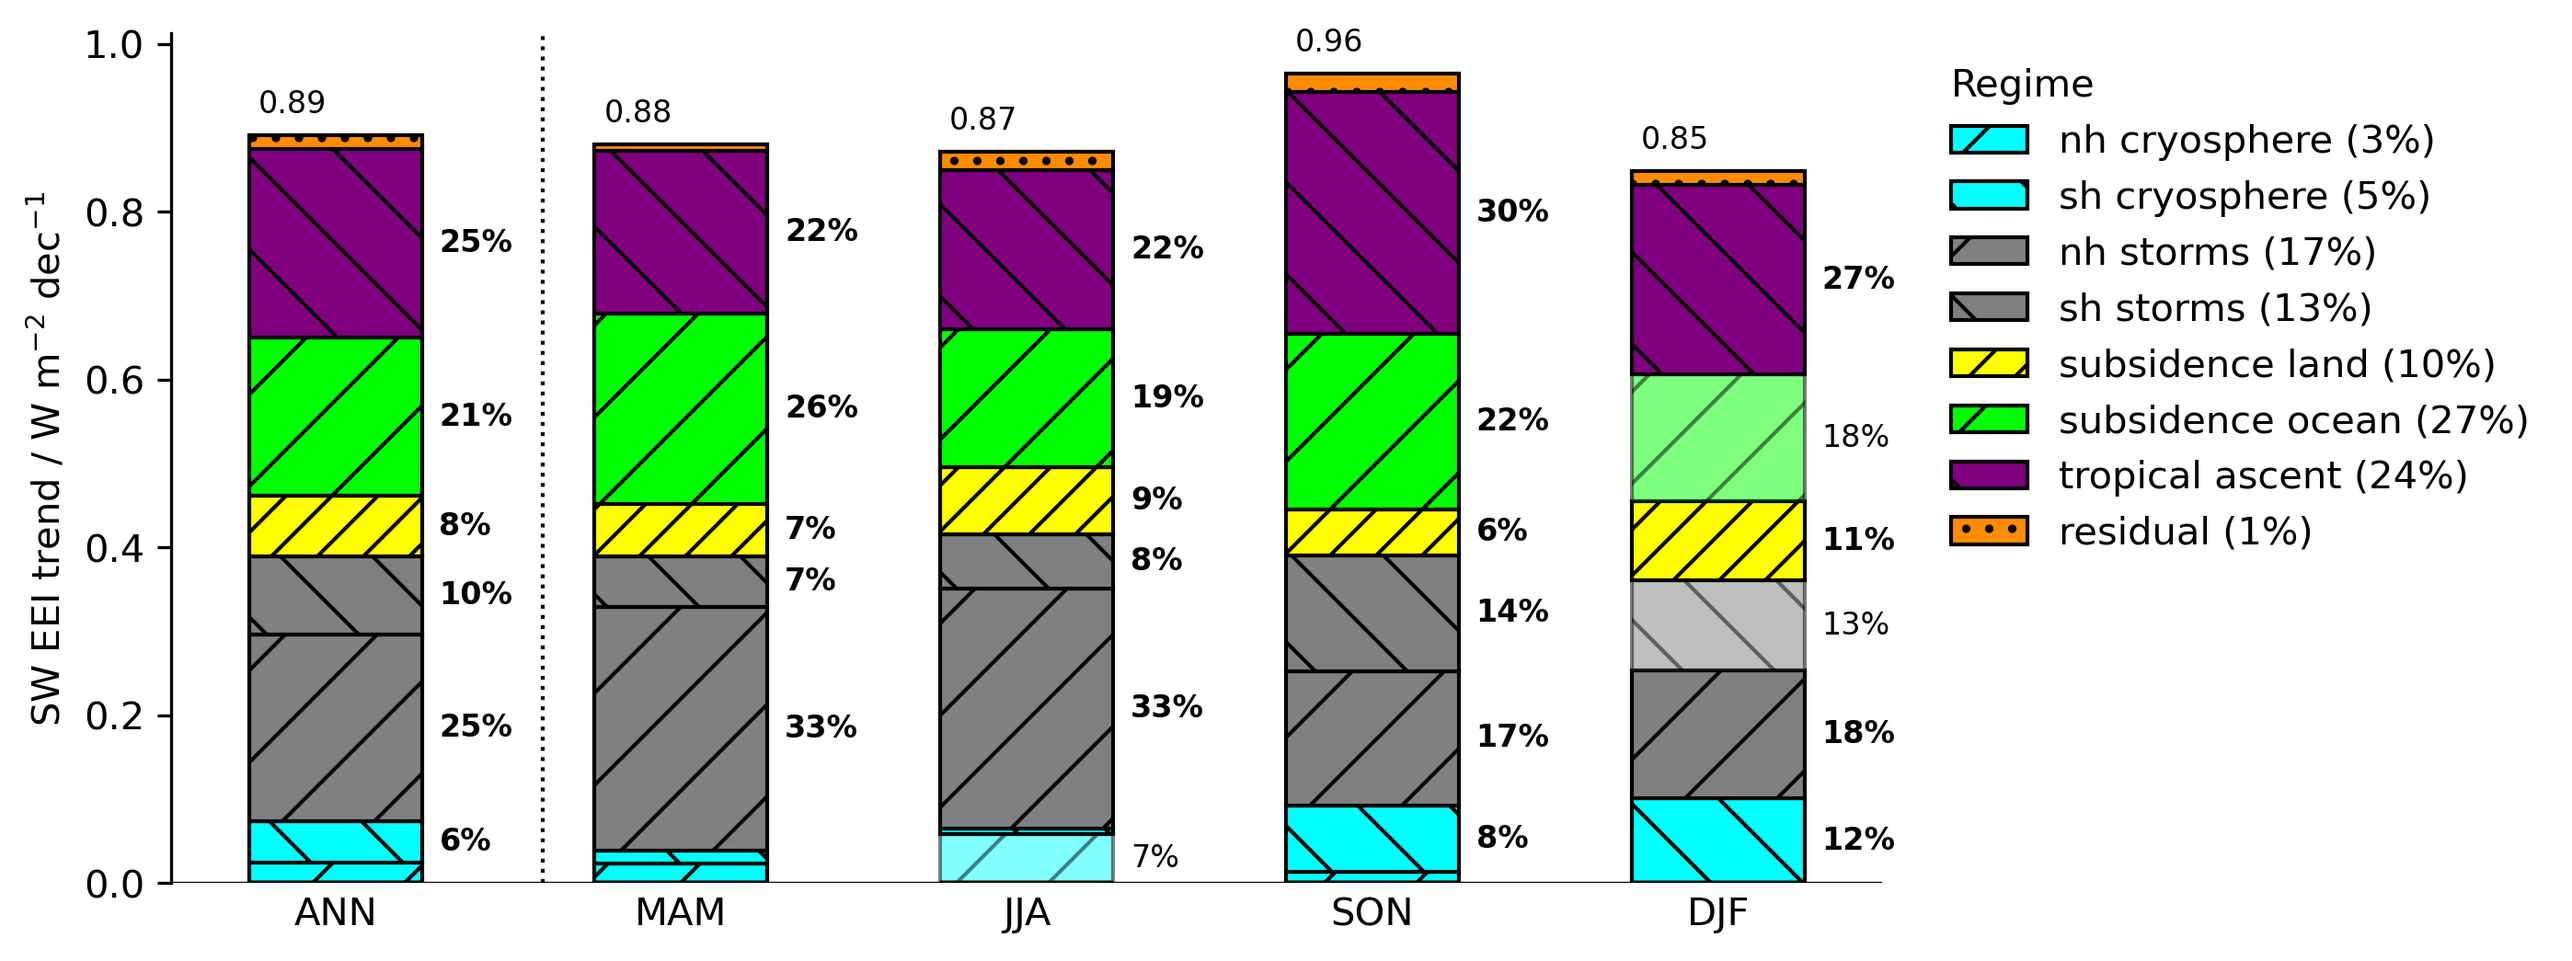
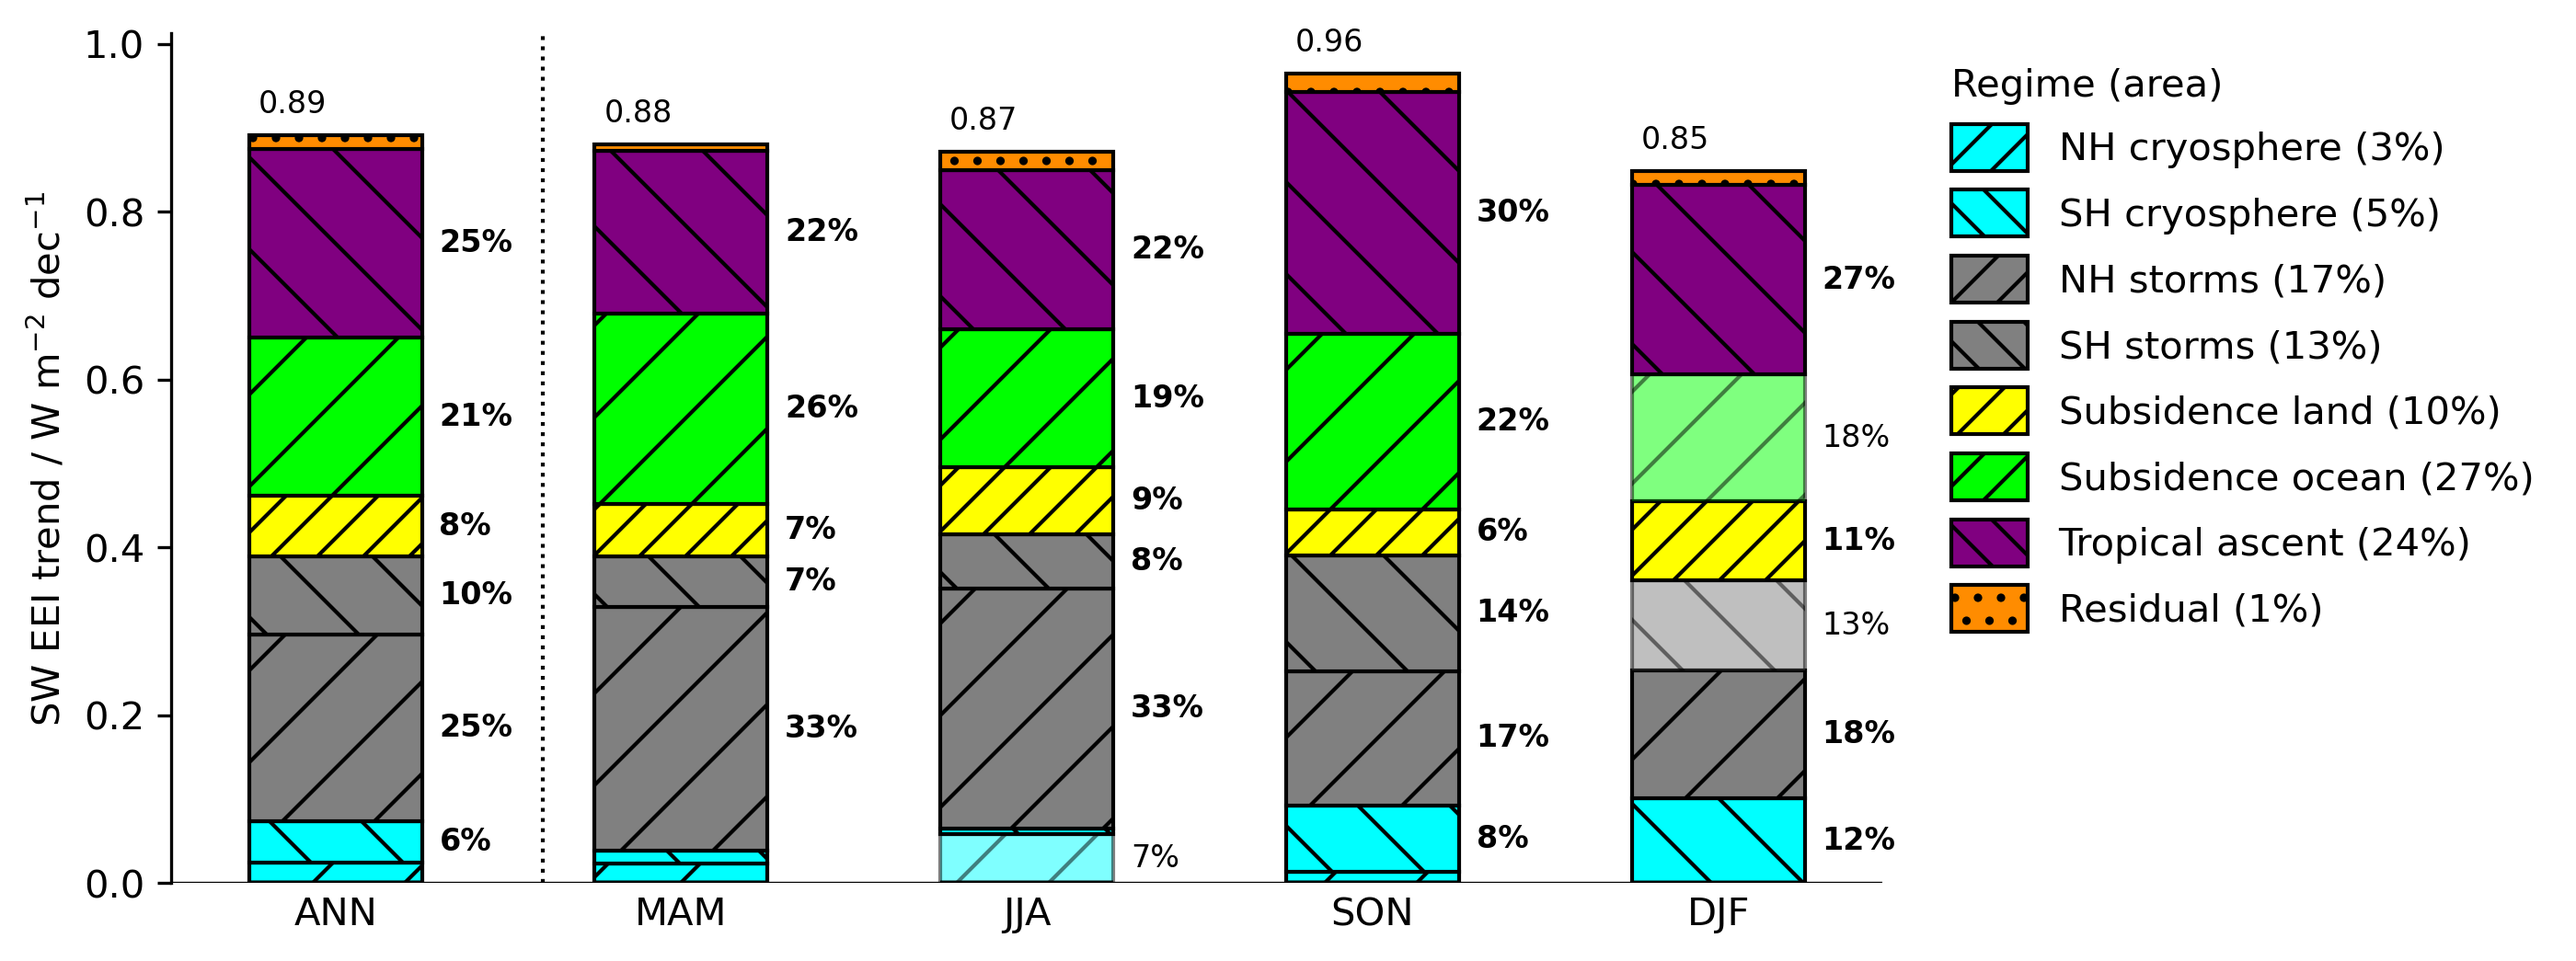
make legend pretty

diff --git a/make_figs/barchart.py b/make_figs/barchart.py
@@ -2,7 +2,7 @@ import numpy as np
 import xarray as xr
 import matplotlib.pyplot as plt
 from matplotlib.patches import Patch
-from utils.plotting import colors, hatches
+from utils.plotting import colors, hatches, hatches_legend
 
 ds = xr.open_dataset("pp/regime_mean_trends.nc")
 
@@ -94,18 +94,21 @@ for PLOT_VAR in ["net", "sw"]:
             Patch(
                 facecolor=colors[r],
                 edgecolor="k",
-                hatch=hatches.get(r, ""),
+                hatch=hatches_legend.get(r, ""),
                 alpha=1.0
             )
         )
+        r_formatted = r.replace('_',' ').replace("nh","NH").replace("sh","SH")
+        r_formatted = r_formatted[0].upper() + r_formatted[1:]
         legend_labels.append(
-            f"{r.replace('_',' ')} ({area_ann.sel(regime=r)*100:.0f}%)"
+            f"{r_formatted} ({area_ann.sel(regime=r)*100:.0f}%)"
         )
 
     ax.legend(
         legend_handles,
         legend_labels,
-        title="Regime",
+        handleheight=1.5,
+        title="Regime (area)",
         alignment="left",
         bbox_to_anchor=(1.02, 1.0),
         loc="upper left",

diff --git a/utils/plotting.py b/utils/plotting.py
@@ -31,6 +31,18 @@ hatches = {
     "residual": "..",
 }
 
+# hatching for legend
+hatches_legend = {
+    "nh_storms": "//",
+    "sh_storms": "\\\\",
+    "nh_cryosphere": "//",
+    "sh_cryosphere": "\\\\",
+    "subsidence_land": "//",
+    "subsidence_ocean": "//",
+    "tropical_ascent": "\\\\",
+    "residual": "..",
+}
+
 def plot_colormesh(ax, da, lim=color_range_for_trends, mask_and_val=(None, None), cmap="bwr"):
     mask, val = mask_and_val
     if mask is not None:
